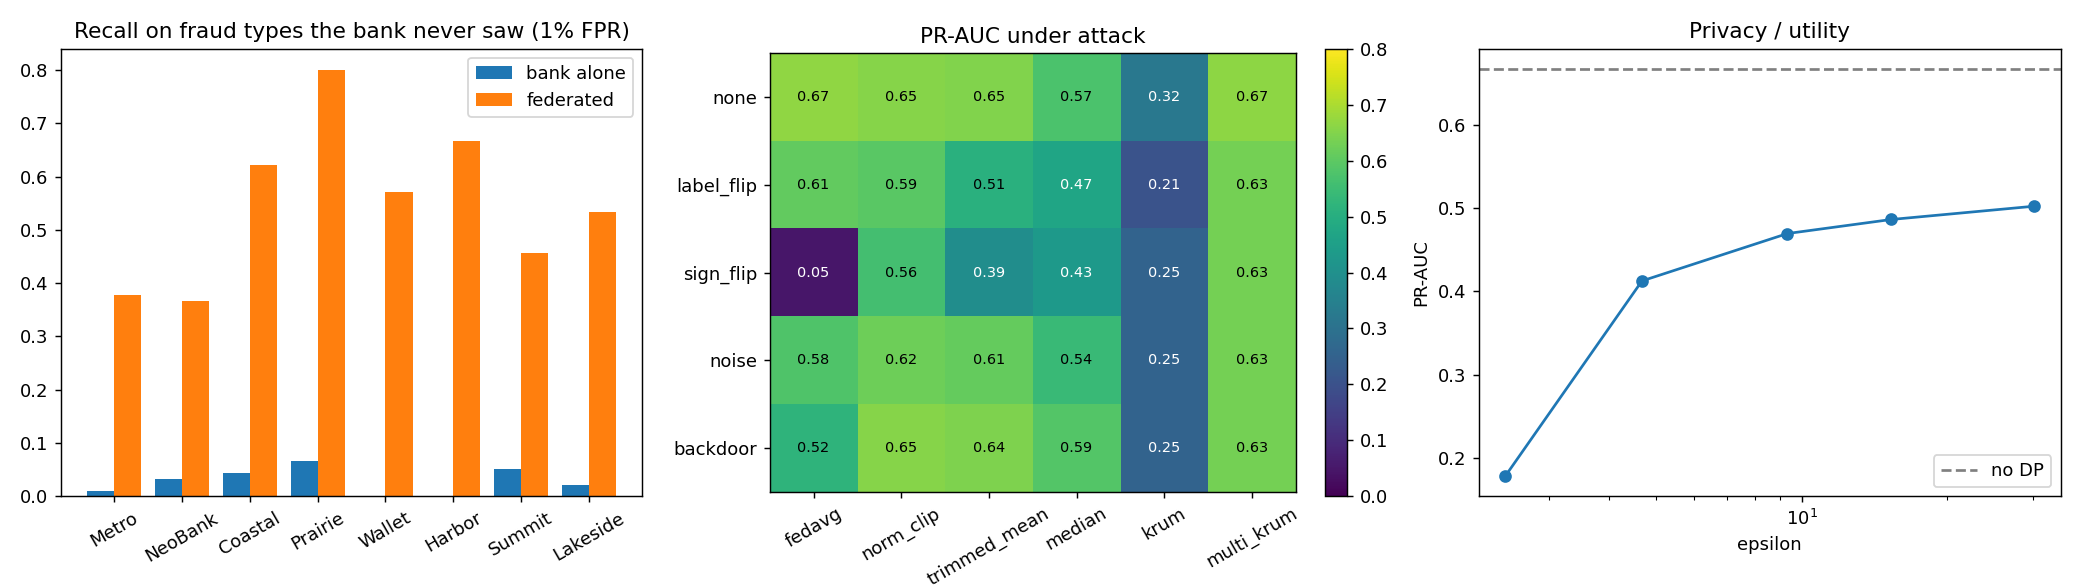
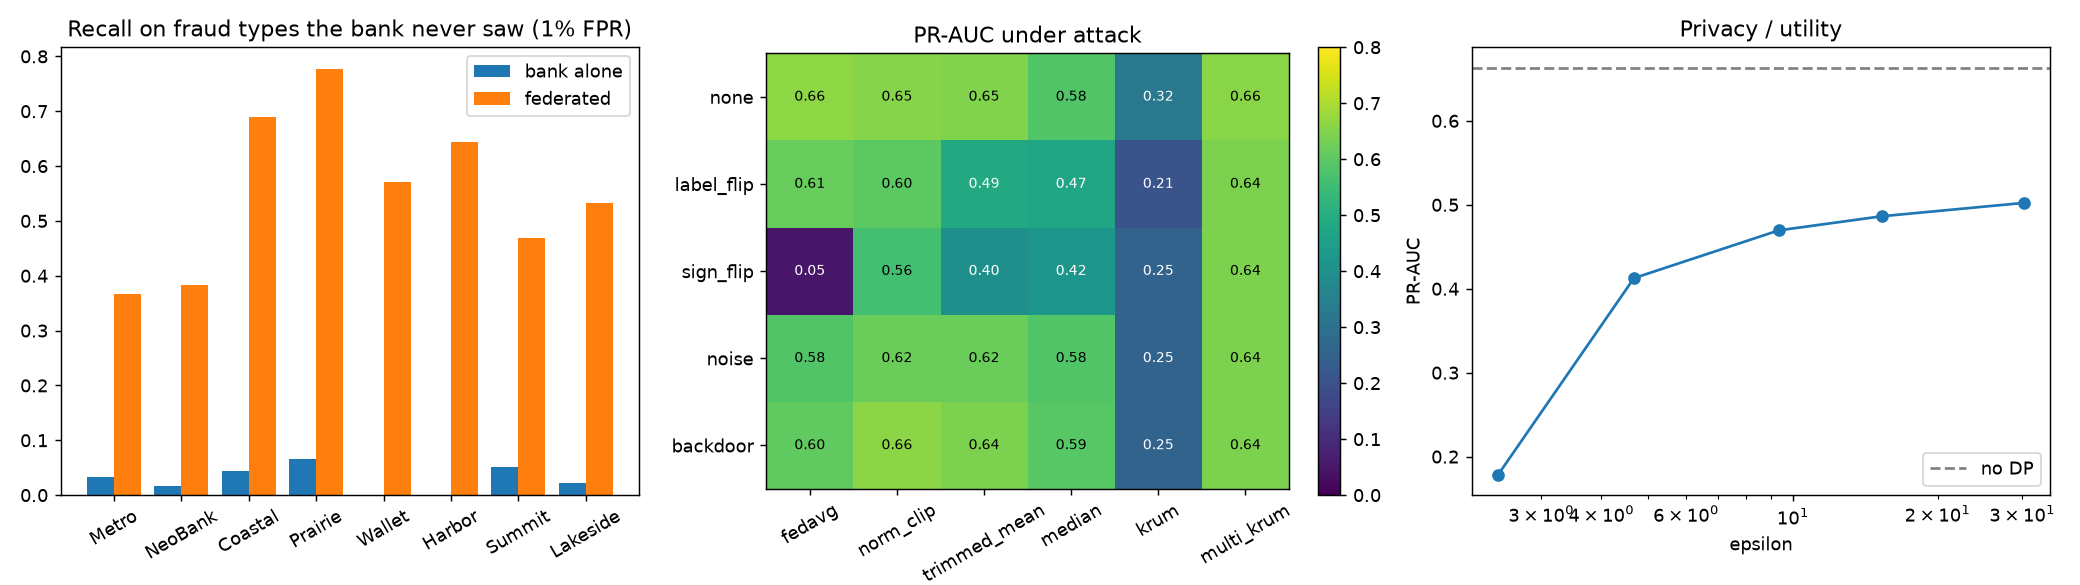
Re-run the simulated experiments on the pinned dependencies and update the numbers
Multi-Krum under sign flipping moves from 0.632 to 0.643 and backdoor let-through from
41% to 47% for FedAvg and 3% to 5% for Multi-Krum; the conclusions are the same. The
real-data results were not re-run.

diff --git a/docs/evaluation.md b/docs/evaluation.md
@@ -2,7 +2,7 @@
 
 ## Simulated consortium
 
-`python -m fedshield experiments` runs the full suite (30 rounds, about 11 minutes on a laptop CPU) and writes the tables to `results/`.
+`python -m fedshield experiments` runs the full suite (30 rounds) and writes the tables to `results/`. The numbers below are from a re-run on the pinned dependencies (torch 2.15); the first run, on older versions, gave the same conclusions with slightly different values. The real-data results further down were not re-run.
 
 ![summary](../results/summary.png)
 
@@ -12,16 +12,16 @@ Setup: 8 banks of different sizes (1,500–9,000 training rows) and customer mix
 
 | Bank | Fraud types seen | Alone PR-AUC | Federated PR-AUC | Alone: recall on unseen fraud | Federated: recall on unseen fraud |
 |---|---|---|---|---|---|
-| Metro Retail Bank | card testing, ATO | 0.442 | 0.725 | 0.01 | 0.38 |
-| NeoBank | ATO, CNP | 0.347 | 0.615 | 0.03 | 0.37 |
-| Coastal Cooperative | skimming, card testing | 0.285 | 0.673 | 0.04 | 0.62 |
-| Prairie Credit Union | bust-out, skimming | 0.277 | 0.708 | 0.07 | 0.80 |
-| Wallet Pay | CNP, bust-out | 0.249 | 0.572 | 0.00 | 0.57 |
-| Harbor Savings | ATO, skimming | 0.285 | 0.697 | 0.00 | 0.67 |
-| Summit Card Services | card testing, CNP | 0.340 | 0.676 | 0.05 | 0.46 |
-| Lakeside Bank | bust-out, ATO | 0.323 | 0.714 | 0.02 | 0.53 |
+| Metro Retail Bank | card testing, ATO | 0.441 | 0.715 | 0.03 | 0.37 |
+| NeoBank | ATO, CNP | 0.351 | 0.617 | 0.02 | 0.38 |
+| Coastal Cooperative | skimming, card testing | 0.292 | 0.677 | 0.04 | 0.69 |
+| Prairie Credit Union | bust-out, skimming | 0.277 | 0.696 | 0.07 | 0.78 |
+| Wallet Pay | CNP, bust-out | 0.249 | 0.570 | 0.00 | 0.57 |
+| Harbor Savings | ATO, skimming | 0.285 | 0.693 | 0.00 | 0.64 |
+| Summit Card Services | card testing, CNP | 0.340 | 0.672 | 0.05 | 0.47 |
+| Lakeside Bank | bust-out, ATO | 0.323 | 0.716 | 0.02 | 0.53 |
 
-Recall is measured at a 1% false-positive rate. The federated global PR-AUC is 0.667, against 0.705 when all raw data is pooled in one place.
+Recall is measured at a 1% false-positive rate. The federated global PR-AUC is 0.663, against 0.711 when all raw data is pooled in one place.
 
 ### Two of eight banks malicious
 
@@ -29,13 +29,13 @@ Global PR-AUC:
 
 | Attack \ Aggregator | FedAvg | Norm clip | Trimmed mean | Median | Krum | Multi-Krum |
 |---|---|---|---|---|---|---|
-| none | 0.667 | 0.654 | 0.649 | 0.573 | 0.320 | 0.665 |
-| label flip | 0.609 | 0.595 | 0.507 | 0.471 | 0.205 | 0.632 |
-| sign flip (boosted) | 0.050 | 0.560 | 0.393 | 0.430 | 0.254 | 0.632 |
-| random noise | 0.578 | 0.622 | 0.610 | 0.543 | 0.254 | 0.632 |
-| backdoor (boosted) | 0.520 | 0.654 | 0.645 | 0.587 | 0.254 | 0.632 |
+| none | 0.663 | 0.655 | 0.649 | 0.582 | 0.320 | 0.658 |
+| label flip | 0.613 | 0.600 | 0.485 | 0.475 | 0.205 | 0.643 |
+| sign flip (boosted) | 0.050 | 0.560 | 0.398 | 0.421 | 0.254 | 0.643 |
+| random noise | 0.583 | 0.620 | 0.620 | 0.584 | 0.254 | 0.643 |
+| backdoor (boosted) | 0.604 | 0.660 | 0.643 | 0.593 | 0.254 | 0.643 |
 
-Backdoor success, measured as extra triggered fraud let through compared with a clean model: FedAvg +41%, norm clip +39%, trimmed mean +31%, median +23%, Krum +15%, Multi-Krum +3%.
+Backdoor success, measured as extra triggered fraud let through compared with a clean model: FedAvg +47%, norm clip +27%, trimmed mean +33%, median +25%, Krum +15%, Multi-Krum +5%.
 
 Plain FedAvg is destroyed by one boosted sign-flip attacker. Krum is robust but discards most of the honest signal when banks' data differ. Multi-Krum keeps clean accuracy and resists every attack tested. The backdoor trigger uses two fields with no fraud signal of their own, so it doesn't show up in clean accuracy.
 
@@ -43,7 +43,7 @@ Plain FedAvg is destroyed by one boosted sign-flip attacker. Krum is robust but 
 
 | DP noise multiplier | ε (δ = 1e-5) | PR-AUC |
 |---|---|---|
-| 0 (off) | ∞ | 0.667 |
+| 0 (off) | ∞ | 0.663 |
 | 0.6 | 30.2 | 0.502 |
 | 0.8 | 15.3 | 0.486 |
 | 1.0 | 9.3 | 0.469 |
@@ -52,7 +52,7 @@ Plain FedAvg is destroyed by one boosted sign-flip attacker. Krum is robust but 
 
 Each bank runs DP-SGD locally with per-example gradients clipped to norm 1, Gaussian noise and Poisson sampling. ε comes from the Rényi DP of the sampled Gaussian mechanism (Mironov et al., 2019), composed over every local step, and is reported for the worst-case bank.
 
-Secure aggregation: each pair of banks agrees on a key with X25519 and derives a fresh mask every round with HKDF. Updates are encoded as fixed-point numbers mod 2^48, so the masks cancel exactly and the server only sees the sum. The final PR-AUC matches plain FedAvg within rounding (0.664 vs 0.667).
+Secure aggregation: each pair of banks agrees on a key with X25519 and derives a fresh mask every round with HKDF. Updates are encoded as fixed-point numbers mod 2^48, so the masks cancel exactly and the server only sees the sum. The final PR-AUC matches plain FedAvg to within 0.006. Masks now come from the ChaCha20 stream cipher (they came from numpy's PCG64 generator, which is not cryptographically secure); since masks cancel exactly, the result doesn't depend on how they are generated.
 
 ## Real card transactions
 

diff --git a/results/RESULTS.md b/results/RESULTS.md
@@ -6,42 +6,42 @@ rounds=30, seed=0
 
 | bank | train rows | typologies seen | local PR-AUC | federated PR-AUC | local recall on unseen fraud | federated recall on unseen fraud |
 |---|---|---|---|---|---|---|
-| Metro Retail Bank | 9000 | card_testing, account_takeover | 0.442 | 0.725 | 0.011 | 0.378 |
-| NeoBank | 6000 | account_takeover, cnp_fraud | 0.347 | 0.615 | 0.033 | 0.367 |
-| Coastal Cooperative | 3000 | skimming, card_testing | 0.285 | 0.673 | 0.044 | 0.622 |
-| Prairie Credit Union | 1500 | merchant_bust_out, skimming | 0.277 | 0.708 | 0.067 | 0.800 |
-| Wallet Pay | 7000 | cnp_fraud, merchant_bust_out | 0.249 | 0.572 | 0.000 | 0.571 |
-| Harbor Savings | 4000 | account_takeover, skimming | 0.285 | 0.697 | 0.000 | 0.667 |
-| Summit Card Services | 8000 | card_testing, cnp_fraud | 0.340 | 0.676 | 0.051 | 0.456 |
-| Lakeside Bank | 2500 | merchant_bust_out, account_takeover | 0.323 | 0.714 | 0.022 | 0.533 |
+| Metro Retail Bank | 9000 | card_testing, account_takeover | 0.441 | 0.715 | 0.033 | 0.367 |
+| NeoBank | 6000 | account_takeover, cnp_fraud | 0.351 | 0.617 | 0.017 | 0.383 |
+| Coastal Cooperative | 3000 | skimming, card_testing | 0.292 | 0.677 | 0.044 | 0.689 |
+| Prairie Credit Union | 1500 | merchant_bust_out, skimming | 0.277 | 0.696 | 0.067 | 0.778 |
+| Wallet Pay | 7000 | cnp_fraud, merchant_bust_out | 0.249 | 0.570 | 0.000 | 0.571 |
+| Harbor Savings | 4000 | account_takeover, skimming | 0.285 | 0.693 | 0.000 | 0.644 |
+| Summit Card Services | 8000 | card_testing, cnp_fraud | 0.340 | 0.672 | 0.051 | 0.468 |
+| Lakeside Bank | 2500 | merchant_bust_out, account_takeover | 0.323 | 0.716 | 0.022 | 0.533 |
 
-Global PR-AUC: federated **0.667**, centralized upper bound 0.705.
+Global PR-AUC: federated **0.663**, centralized upper bound 0.711.
 
 ## PR-AUC under attack (2 of 8 banks malicious)
 
 | attack | fedavg | norm_clip | trimmed_mean | median | krum | multi_krum |
 |---|---|---|---|---|---|---|
-| none | 0.667 | 0.654 | 0.649 | 0.573 | 0.320 | 0.665 |
-| label_flip | 0.609 | 0.595 | 0.507 | 0.471 | 0.205 | 0.632 |
-| sign_flip | 0.050 | 0.560 | 0.393 | 0.430 | 0.254 | 0.632 |
-| noise | 0.578 | 0.622 | 0.610 | 0.543 | 0.254 | 0.632 |
-| backdoor | 0.520 | 0.654 | 0.645 | 0.587 | 0.254 | 0.632 |
+| none | 0.663 | 0.655 | 0.649 | 0.582 | 0.320 | 0.658 |
+| label_flip | 0.613 | 0.600 | 0.485 | 0.475 | 0.205 | 0.643 |
+| sign_flip | 0.050 | 0.560 | 0.398 | 0.421 | 0.254 | 0.643 |
+| noise | 0.583 | 0.620 | 0.620 | 0.584 | 0.254 | 0.643 |
+| backdoor | 0.604 | 0.660 | 0.643 | 0.593 | 0.254 | 0.643 |
 
 ## Backdoor success lift over the clean model
 
 | attack | fedavg | norm_clip | trimmed_mean | median | krum | multi_krum |
 |---|---|---|---|---|---|---|
 | none | 0.000 | 0.000 | 0.000 | 0.000 | 0.000 | 0.000 |
-| label_flip | 0.053 | 0.014 | 0.254 | 0.114 | 0.150 | 0.031 |
-| sign_flip | 0.473 | 0.043 | 0.208 | 0.065 | 0.145 | 0.031 |
-| noise | 0.129 | 0.050 | 0.055 | -0.038 | 0.145 | 0.031 |
-| backdoor | 0.414 | 0.394 | 0.310 | 0.225 | 0.145 | 0.031 |
+| label_flip | 0.079 | 0.030 | 0.258 | 0.109 | 0.150 | 0.045 |
+| sign_flip | 0.478 | 0.043 | 0.224 | 0.081 | 0.145 | 0.045 |
+| noise | 0.140 | 0.048 | 0.031 | -0.029 | 0.145 | 0.045 |
+| backdoor | 0.473 | 0.274 | 0.330 | 0.252 | 0.145 | 0.045 |
 
 ## Privacy / utility
 
 | noise multiplier | epsilon (delta=1e-5) | pr_auc |
 |---|---|---|
-| 0.000 | inf | 0.667 |
+| 0.000 | inf | 0.663 |
 | 0.600 | 30.204 | 0.502 |
 | 0.800 | 15.307 | 0.486 |
 | 1.000 | 9.340 | 0.469 |
@@ -50,4 +50,4 @@ Global PR-AUC: federated **0.667**, centralized upper bound 0.705.
 
 ## Secure aggregation
 
-Same result as plain FedAvg (PR-AUC difference 0.0028); runtime 11.7s plain vs 11.9s masked.
+Same result as plain FedAvg (PR-AUC difference 0.0057); runtime 53.5s plain vs 36.6s masked.

diff --git a/README.md b/README.md
@@ -26,13 +26,32 @@ python -m fedshield experiments                       # full result tables and p
 streamlit run app.py                                  # interactive simulator
 ```
 
+## Model service
+
+`python -m fedshield serve` (or the container image, `docker build -t federated-fraud-shield .`, see [docs/runbook.md](docs/runbook.md)) publishes and serves federated models.
+
+| Endpoint | Purpose |
+|---|---|
+| `POST /v1/train` | run a federation on the simulated consortium (aggregator, rounds, DP noise, secure aggregation) and publish a model version |
+| `GET /v1/models` | published versions with PR-AUC, ε and configuration |
+| `POST /v1/score` | fraud scores from the newest version, flagged at its 1% false-positive threshold |
+| `GET /healthz`, `/readyz`, `/metrics` | health, readiness and Prometheus metrics |
+
+Model versions are stored as float32 arrays in SQLite or Postgres, never as pickles. API keys carry a role: `scorer`, `viewer`, `trainer`, `monitor`. Create one with `python -m fedshield.ops keygen`.
+
+| Variable | Purpose |
+|---|---|
+| `FEDSHIELD_ENV=production` | refuse to start without hashed API keys and a database |
+| `FEDSHIELD_API_KEYS` / `FEDSHIELD_KEYS_FILE` | hashed API keys with roles |
+| `FEDSHIELD_DATABASE_URL` | `sqlite:///...` or `postgresql://...` |
+
 ## Results
 
 | Test | Result |
 |---|---|
-| Simulated consortium, recall on fraud types a bank never saw | 0.00–0.07 alone, 0.37–0.80 federated |
-| Simulated consortium, two malicious banks using sign flipping | FedAvg drops to PR-AUC 0.05; Multi-Krum keeps 0.63 |
-| Simulated backdoor attack | FedAvg lets through 41% more triggered fraud; Multi-Krum 3% |
+| Simulated consortium, recall on fraud types a bank never saw | 0.00–0.07 alone, 0.37–0.78 federated |
+| Simulated consortium, two malicious banks using sign flipping | FedAvg drops to PR-AUC 0.05; Multi-Krum keeps 0.64 |
+| Simulated backdoor attack | FedAvg lets through 47% more triggered fraud; Multi-Krum 5% |
 | Real card transactions (ULB, split into 8 banks) | federation helps 6 of 8 banks; global PR-AUC 0.77 |
 | Real data, differential privacy at ε = 3.9 | PR-AUC 0.746 against 0.765 without |
 
@@ -51,6 +70,8 @@ fedshield/
   secure_agg.py    pairwise-masked secure aggregation
   federation.py    training loop and baselines
   experiments.py   reproducible experiment suite
+  api.py           model service: train, publish, score
+  ops.py           settings, API keys, limits, logs, metrics
 app.py             Streamlit simulator
 ```
 
@@ -60,4 +81,11 @@ app.py             Streamlit simulator
 - Secure aggregation assumes no bank drops out during a round. Production protocols add secret sharing of the mask seeds for that case.
 - Secure aggregation can't be combined with Krum or the median, which need to see individual updates. The code refuses that combination.
 - No multi-bank fraud dataset is public, so the real-data test splits one bank's data into eight.
-- There is no API service yet; it runs as a CLI and a dashboard.
+- Training through the API runs the simulated consortium in the service process; it publishes a model, it doesn't federate real banks.
+- The code has not had an independent security review.
+
+See [SECURITY.md](SECURITY.md), [docs/threat-model.md](docs/threat-model.md) and [docs/model-card.md](docs/model-card.md).
+
+## License
+
+MIT. See [LICENSE](LICENSE).

diff --git a/docs/runbook.md b/docs/runbook.md
@@ -1,0 +1,53 @@
+# Runbook
+
+How to deploy, configure and operate the model service. Commands assume the repository root.
+
+## Deploy
+
+```bash
+docker build -t federated-fraud-shield:1.0.0 .
+python -m fedshield.ops keygen             # API keys per scoring client, trainer and monitor
+docker run -d --name fedshield -p 8003:8003 -v fedshield-data:/data \
+  -e FEDSHIELD_KEYS_FILE=/run/secrets/fedshield-keys.json \
+  federated-fraud-shield:1.0.0
+curl -fsS -X POST -H "x-api-key: $TRAINER_KEY" -H 'content-type: application/json' \
+  -d '{"rounds": 30, "aggregator": "multi_krum"}' http://127.0.0.1:8003/v1/train
+curl -fsS http://127.0.0.1:8003/readyz
+```
+
+The image runs in production mode as a non-root user with its SQLite database in `/data`. It refuses
+to start, and logs why, without keys or a database URL. `/readyz` reports not ready until a model
+version has been published. Training runs the simulated consortium in the service process; a real
+consortium needs each bank's training as its own service (see the README).
+
+## Configure
+
+| Variable | Required in production | Meaning |
+|---|---|---|
+| `FEDSHIELD_ENV` | — | `development` (default) or `production` |
+| `FEDSHIELD_API_KEYS` / `FEDSHIELD_KEYS_FILE` | yes | JSON `{"sha256:<hex>": {"user": "...", "role": "..."}}`. Roles: `scorer`, `viewer`, `trainer` (train, read), `monitor`, `admin` |
+| `FEDSHIELD_DATABASE_URL` | yes | `sqlite:////data/fedshield.db` or `postgresql://...` (development default: in memory) |
+| `FEDSHIELD_HOST`, `FEDSHIELD_PORT` | — | default `127.0.0.1:8003` |
+| `FEDSHIELD_RATE_LIMIT`, `FEDSHIELD_MAX_BODY_BYTES` | — | default 120/min per client, 512,000 bytes |
+
+## Watch
+
+- `GET /healthz`; `GET /readyz` (database and a published model); `GET /metrics` (role `monitor`):
+  requests, latency, errors, `fedshield_decisions_total{decision="model_published|flagged|cleared"}`.
+- `GET /v1/models` lists each version's PR-AUC, ε and configuration.
+
+## Rotate keys
+
+Add the new API key hash, restart, hand over the key, remove the old hash, restart.
+
+## Back up and restore
+
+The model registry and score log are the whole state: back up the database (`sqlite3` backup API or
+`pg_dump`). Restore, start, and check that `/v1/models` lists the expected newest version.
+
+## Incidents
+
+1. **A published version performs badly.** Publish a new one with a robust aggregator; scoring always
+   uses the newest version. To roll back, delete the bad row from `models` (it is versioned) and
+   restart.
+2. **Leaked trainer key.** Remove its hash and restart; check `/v1/models` for versions it published.

diff --git a/docs/threat-model.md b/docs/threat-model.md
@@ -1,0 +1,31 @@
+# Threat model
+
+What the federation and its model service protect, from whom, and what is still open. Written for
+the 1.0.0 code; nobody independent has reviewed it.
+
+## What it protects
+
+| Asset | Where it lives |
+|---|---|
+| Each bank's transactions | never leave the bank in the protocol; in this code all banks run in one process |
+| Each bank's model update | sent to the server; hidden inside the sum with secure aggregation |
+| The global model | `models` table, as float32 arrays (no pickles) |
+| Who scored what | `score_log` table |
+
+## Threats and what stops them
+
+| Threat | Mitigation | Residual risk |
+|---|---|---|
+| A malicious bank poisons the model | Robust aggregators (Multi-Krum keeps PR-AUC 0.64 under two sign-flipping banks; FedAvg drops to 0.05) | Robust aggregators can't run on top of secure aggregation; use client-side norm clipping there |
+| A backdoor | Multi-Krum lets through 5% more triggered fraud, FedAvg 47% | Measured with one trigger design |
+| The server learns a bank's update | Secure aggregation: X25519 pairwise keys, HKDF, ChaCha20 masks; the server sees only the sum | No dropout recovery: a bank leaving mid-round breaks the round. The protocol is assembled from vetted primitives but has not been reviewed. |
+| A model inversion or membership attack on the global model | DP-SGD with a per-bank ε accountant | ε is only meaningful with DP enabled; without it there is no guarantee |
+| A malicious model file runs code | Versions are stored as float32 arrays and loaded with numpy, never unpickled | — |
+| Unauthorised training or scoring | API keys with roles (`trainer`, `scorer`) | One training run at a time, CPU-heavy: a trainer key can tie the service up |
+| Errors leak data | Validation errors don't echo input; unhandled errors return only a request ID | — |
+
+## Not covered
+
+- Running each bank as its own service, transport security between banks and the server, and bank
+  authentication: everything here runs in one process.
+- TLS (terminate it at the ingress).

diff --git a/docs/model-card.md b/docs/model-card.md
@@ -1,0 +1,36 @@
+# Model card: federated fraud model
+
+A small feed-forward network (two hidden layers) trained by federated learning across banks, with a
+choice of aggregation rule, optional DP-SGD and optional secure aggregation. Numbers come from
+`docs/evaluation.md` and `results/`.
+
+## Intended use
+
+Showing whether banks gain from training together without sharing transactions, which aggregation
+rule survives malicious members, and what differential privacy costs. Trained on simulated banks;
+not a production fraud model without retraining on real member data.
+
+## Evaluation
+
+**Simulated consortium** (8 banks, 5 fraud types, each bank has seen 2):
+- Recall on fraud types a bank never saw: 0.00–0.07 alone, 0.37–0.78 federated. Global PR-AUC 0.663
+  federated against 0.711 with all data pooled.
+- Two malicious banks with boosted sign flipping: FedAvg 0.050, Multi-Krum 0.643.
+- Backdoor: FedAvg lets through 47% more triggered fraud, Multi-Krum 5%.
+- DP-SGD: PR-AUC 0.502 at ε = 30.2, 0.469 at ε = 9.3, 0.178 at ε = 2.4.
+
+**Real card transactions** (ULB, split into 8 banks by behaviour): federation helps 6 of 8 banks,
+global PR-AUC 0.766; DP at ε = 3.9 gives 0.746 against 0.765 without.
+
+## Known failure modes
+
+- Krum discards most honest signal when banks' data differ (PR-AUC 0.32 with no attack).
+- With rare fraud, label flipping badly hurts the median aggregator on real data (0.23).
+- Robust aggregators can't be combined with secure aggregation; only FedAvg with client-side clipping.
+- Strong privacy (ε ≈ 2) costs most of the utility on the simulated data.
+- The real-data test splits one bank's data into eight; no multi-bank dataset is public.
+
+## Before relying on it
+
+Run the federation with real member banks (each as its own service), choose the aggregator from
+measured attacks on that data, and set ε with the members' privacy officers.
